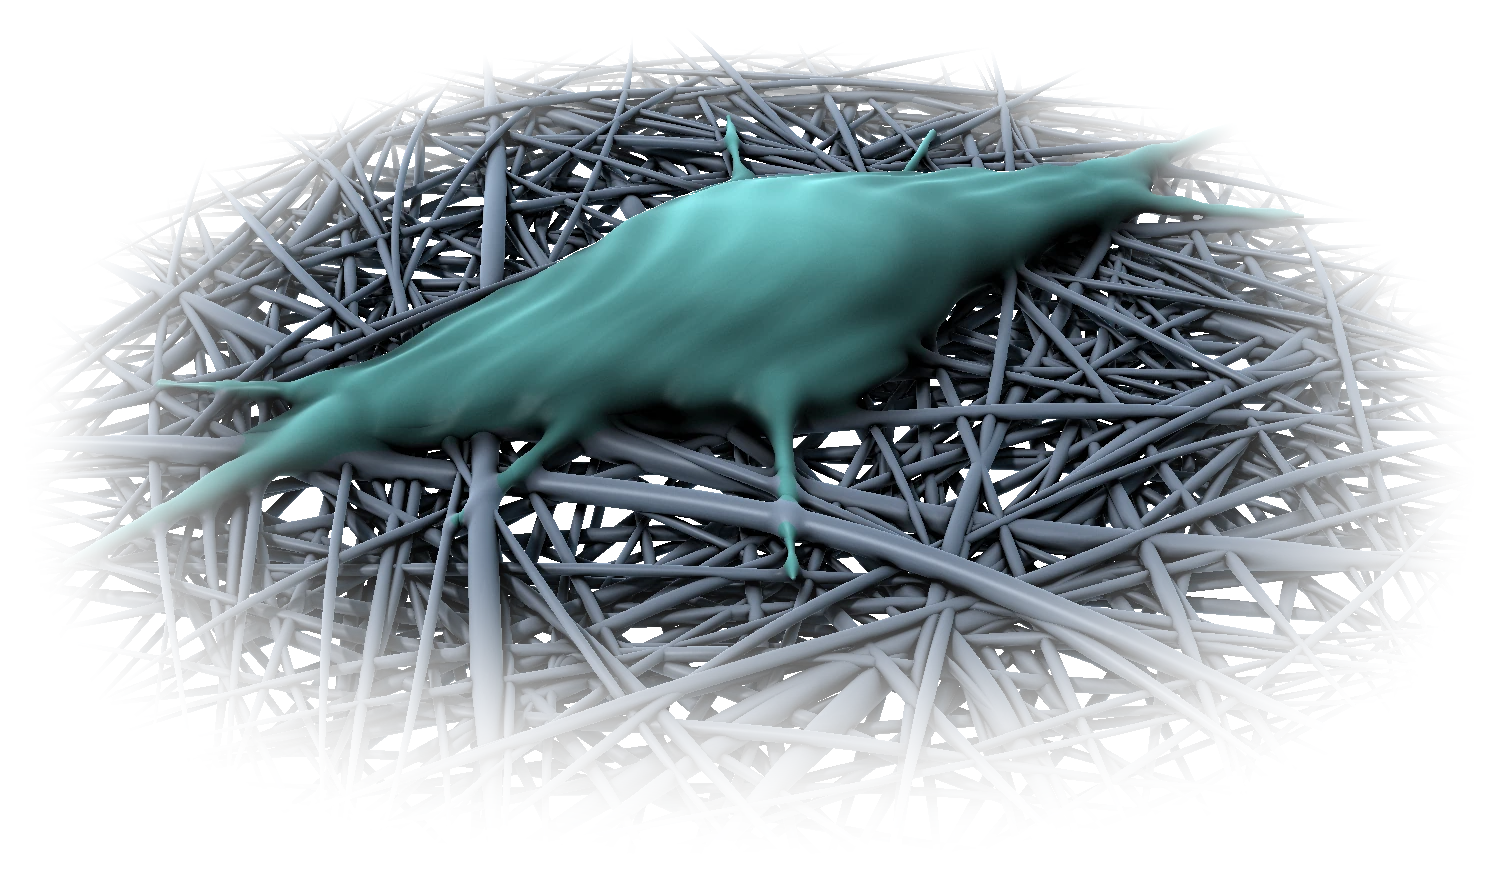
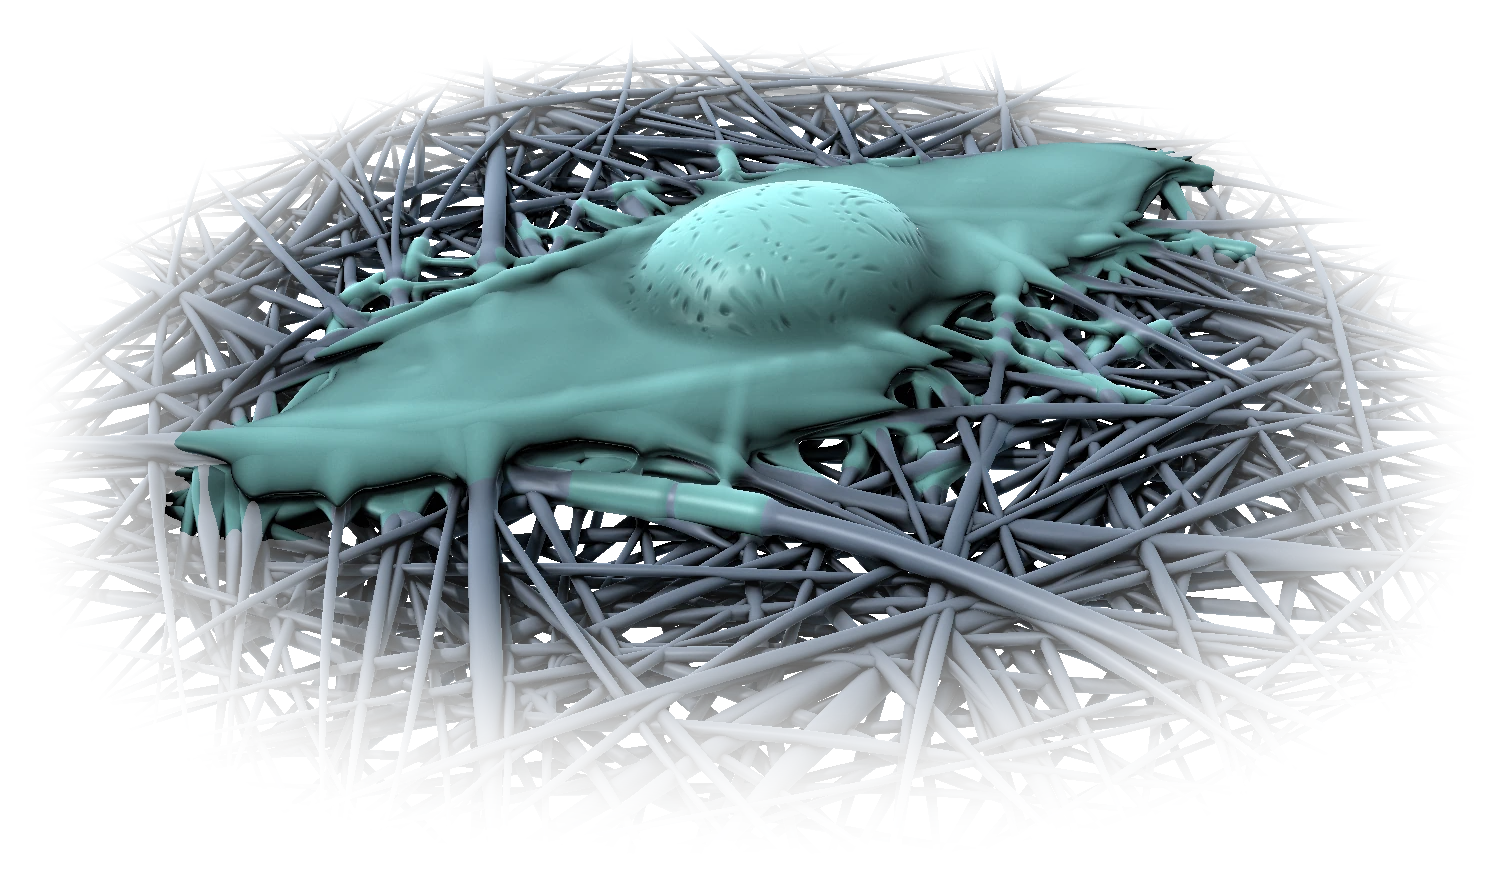
stembiosys: hero re-render (spread MSC with domed nucleus, filopodia anchored on matrix fibres, SEM shading)
Claude-Session: https://claude.ai/code/session_014388ND6gHmKRCQVnuSan9d

Changed region(s): [[0.0613, 0.122, 0.8587, 0.6712]]

diff --git a/_kit/home/stembiosys/render.py b/_kit/home/stembiosys/render.py
@@ -26,14 +26,42 @@ BB = rng.uniform(.01, .03, NF); GQ = rng.uniform(2, 5, NF); PS = rng.uniform(0, 
 CT, ST = np.cos(TH), np.sin(TH)
 # ---- the cell: a spread, spindle-shaped MSC, long axis at angle AL ----
 AL = 0.42; CA, SA = np.cos(AL), np.sin(AL); CU, CV = 0.05, 0.05
-BODY = [  # (u, v, y, ru, rv, ry)
- (0.00, 0.00, 0.07, 0.46, 0.33, 0.17), (0.38, 0.06, 0.04, 0.42, 0.24, 0.10), (-0.40, -0.05, 0.04, 0.42, 0.25, 0.10),
- (0.80, 0.10, 0.015, 0.36, 0.13, 0.05), (-0.82, -0.10, 0.015, 0.38, 0.14, 0.05), (0.05, 0.30, 0.02, 0.22, 0.20, 0.05),
- (-0.10, -0.32, 0.02, 0.24, 0.18, 0.05)]
-PROC = [  # filopodia / long processes: (u0,v0,u1,v1,r0,r1)
- (1.05, 0.15, 1.62, 0.30, .040, .008), (-1.10, -0.15, -1.68, -0.36, .042, .008), (1.0, 0.05, 1.45, -0.22, .022, .006),
- (-1.0, -0.06, -1.42, 0.20, .022, .006), (0.12, 0.42, 0.30, 0.95, .022, .006), (-0.18, -0.44, -0.40, -0.98, .024, .006),
- (0.45, 0.25, 0.80, 0.62, .016, .005), (-0.50, -0.26, -0.95, -0.55, .016, .005)]
+# a flattened, spread MSC: a domed nucleus region over a thin lamella with several lamellipodial lobes
+DOME = (0.05, 0.02, 0.085, 0.33, 0.25, 0.15)          # (u, v, y, ru, rv, ry)
+LAM = [tuple(c * .8 for c in t) for t in [(0.0, 0.0, 0.92, 0.42), (0.78, 0.16, 0.52, 0.30), (-0.86, -0.12, 0.56, 0.30), (0.18, 0.42, 0.40, 0.26),
+       (-0.28, -0.44, 0.38, 0.26), (1.22, 0.30, 0.32, 0.14), (-1.28, -0.28, 0.34, 0.15)]]   # (u, v, ru, rv), thin sheets
+LY, LH = -0.004, 0.026
+def fib_pt(i, s):
+    w = C[i] + AA[i] * np.sin(FQ[i] * s + PH[i]) + KB[i] * s * s
+    x = s * CT[i] - w * ST[i]; z = s * ST[i] + w * CT[i]
+    y = HY[i] + BB[i] * np.sin(GQ[i] * s + PS[i])
+    return np.array([x, y, z])
+def to_world(u, v):
+    return CU + u * CA - v * SA, CV + u * SA + v * CA
+# filopodia: from the lamella edge out to an anchor ON an upper matrix fibre, where they wrap the fibre
+FIL = []; WRAP = []
+rr = np.random.default_rng(77)
+cands = [i for i in range(NF) if HY[i] > -0.07]
+for k in range(26):
+    ang = k / 26 * 2 * np.pi + rr.normal(0, .08)
+    eu, ev = np.cos(ang), np.sin(ang)
+    # edge of the spread cell along this direction (ellipse-ish)
+    re = 1.0 / np.sqrt((eu / 1.25) ** 2 + (ev / 0.5) ** 2) * 0.72
+    ex, ez = to_world(eu * re, ev * re)
+    reach = rr.uniform(.22, .48)
+    tx, tz = to_world(eu * (re + reach), ev * (re + reach))
+    best = None
+    for i in cands:
+        ss_ = np.linspace(-2.2, 2.2, 400); P = np.array([fib_pt(i, q) for q in ss_[::4]])
+        d = np.hypot(P[:, 0] - tx, P[:, 2] - tz); j = np.argmin(d)
+        if best is None or d[j] < best[0]: best = (d[j], i, ss_[::4][j])
+    _, i, sa = best
+    A = fib_pt(i, sa); T = fib_pt(i, sa + .05) - fib_pt(i, sa - .05); T /= np.linalg.norm(T)
+    r0 = rr.uniform(.014, .022)
+    FIL.append((np.array([ex, LY + .01, ez]), A + np.array([0, RF[i] * .6, 0]), r0, .0062))
+    wl = rr.uniform(.04, .09)
+    WRAP.append((A - T * wl, A + T * wl, RF[i] + .0075))
+FIL = np.array([[*a, *b, r0, r1] for a, b, r0, r1 in FIL]); WRAP = np.array([[*a, *b, r] for a, b, r in WRAP])
 def smin(a, b, k):
     h = np.clip(.5 + .5 * (b - a) / k, 0, 1); return b * (1 - h) + a * h - k * h * (1 - h)
 def fib(p):
@@ -44,39 +72,52 @@ def fib(p):
     r = RF * np.clip((RD + .05 - rad) / .45, .15, 1)
     d = np.sqrt(w * w + dy * dy) * .75 - r
     return d.min(1)
+def cap(p, a, b, ra, rb):
+    ba = b - a; pa = p - a
+    t = np.clip((pa @ ba) / (ba @ ba), 0, 1)
+    return np.linalg.norm(pa - t[:, None] * ba, axis=1) - (ra + (rb - ra) * t)
 def cell(p):
     x, y, z = p[:, 0] - CU, p[:, 1], p[:, 2] - CV
     u = x * CA + z * SA; v = -x * SA + z * CA
+    ang = np.arctan2(v, u)
     d = np.full(len(p), 9.0)
-    for (bu, bv, by, ru, rv, ry) in BODY:
-        q = np.stack([(u - bu) / ru, (v - bv) / rv, (y - by) / ry], 1)
-        e = (np.linalg.norm(q, axis=1) - 1) * min(ru, rv, ry)
-        d = smin(d, e, .09)
-    for (u0, v0, u1, v1, r0, r1) in PROC:
-        bu, bv = u1 - u0, v1 - v0; L2 = bu * bu + bv * bv
-        t = np.clip(((u - u0) * bu + (v - v0) * bv) / L2, 0, 1)
-        yy = 0.012 * (1 - t)
-        dd = np.sqrt((u - u0 - bu * t) ** 2 + (v - v0 - bv * t) ** 2 + (y - yy) ** 2) - (r0 + (r1 - r0) * t)
-        d = smin(d, dd, .06)
-    # membrane: fine ruffles and a few surface blebs
-    d += .0035 * np.sin(19 * x + 7 * z + 1.3) * np.sin(23 * z - 11 * x) + .0025 * np.sin(41 * x - 29 * z + 3 * np.sin(9 * z))
+    for k_, (bu, bv, ru, rv) in enumerate(LAM):
+        # a thin lens-shaped sheet (tapers to a fine edge), outline irregular like a spreading MSC
+        sc = 1 + .10 * np.sin(3 * ang + 1.7 * k_) + .05 * np.sin(6 * ang + 2.3 * k_) + .025 * np.sin(13 * ang + k_)
+        R3 = np.stack([ru * sc, rv * sc, np.full_like(sc, LH)], 1)
+        pp = np.stack([u - bu, v - bv, y - LY], 1)
+        k0 = np.linalg.norm(pp / R3, axis=1); k1 = np.linalg.norm(pp / R3 ** 2, axis=1) + 1e-9
+        d = smin(d, k0 * (k0 - 1) / k1 * .85, .07)
+    bu, bv, by, ru, rv, ry = DOME
+    q = np.stack([(u - bu) / ru, (v - bv) / rv, (y - by) / ry], 1)
+    k0 = np.linalg.norm(q, axis=1); k1 = np.linalg.norm(q / np.array([ru, rv, ry]), axis=1) + 1e-9
+    d = smin(d, k0 * (k0 - 1) / k1, .12)
+    P = p
+    for f in FIL: d = smin(d, cap(P, f[0:3], f[3:6], f[6], f[7]), .03)
+    for w_ in WRAP: d = smin(d, cap(P, w_[0:3], w_[3:6], w_[6], w_[6] * .85), .012)
+    # surface: microvilli-like stipple over the dome, fine ruffles across the lamella
+    dome = np.clip(1.4 - np.linalg.norm(q, axis=1), 0, 1)
+    mv = np.sin(61 * x + 7 * np.sin(23 * z)) * np.sin(59 * z + 7 * np.sin(19 * x)) * np.sin(53 * y + 31 * x)
+    d += .0045 * dome * np.maximum(mv, 0) ** 2 * 2
+    d += .0012 * np.sin(23 * x + 13 * z + 2 * np.sin(7 * z)) * np.sin(19 * z - 11 * x)
     return d
 def sdf(p, want=False):
     a = fib(p); b = cell(p)
-    out = smin(a, b, .035)
+    b = b - .016 * np.clip(1 - a / .045, 0, 1) ** 2      # the thin sheet drapes over the fibres beneath it
+    out = smin(a, b, .028)
     if want: return out, b < a
     return out
 CAM = np.array([0.0, 2.2, -3.55]); TGT = np.array([0.0, -0.05, 0.05]); FOV = 37.0
 fw = nrm(TGT - CAM); rt = nrm(np.cross(np.array([0, 1.0, 0]), fw)); up = np.cross(fw, rt)
 TN = np.tan(np.radians(FOV / 2))
 Y0, Y1 = -0.2, 0.33
-def march(O, Dd, t, tmax, steps=150, eps=5e-4):
+def march(O, Dd, t, tmax, steps=200, eps=5e-4):
     hit = np.zeros(len(Dd), bool); act = np.where(t < tmax)[0]
     for s in range(steps):
         if len(act) == 0: break
         p = O + Dd[act] * t[act, None]
         d = sdf(p); h = d < eps; hit[act[h]] = True
-        t[act] += np.maximum(d, eps) * .8
+        t[act] += np.maximum(d, eps) * .65
         act = act[(~h) & (t[act] < tmax[act])]
     return t, hit
 def render_rows(rows):
@@ -105,10 +146,10 @@ def render_rows(rows):
         act = act[(sh[act] > .03) & (ts[act] < 1.2)]
     sh = sh * sh * (3 - 2 * sh)
     V = -D[hi]; ndv = np.clip((Nn * V).sum(1), 0, 1)
-    edge = (1 - ndv) ** 2.2                     # SEM edge brightening
+    edge = (1 - ndv) ** np.where(isc, 1.6, 2.2) * np.where(isc, 1.25, 1.0)                     # SEM edge brightening
     lam = np.clip((Nn @ Lk + .2) / 1.2, 0, 1) * sh
     Hh = nrm(Lk + V); spec = np.clip((Nn * Hh).sum(1), 0, 1) ** 50 * .3 * sh
-    mat = np.array([0.66, 0.76, 0.90]); cel = np.array([0.40, 0.80, 0.80]); blue = np.array([0.0, 0.44, 0.73])
+    mat = np.array([0.66, 0.76, 0.90]); cel = np.array([0.50, 0.84, 0.83]); blue = np.array([0.0, 0.44, 0.73])
     alb = np.where(isc[:, None], cel[None, :], mat[None, :])
     # deeper layers of the mesh sit darker, like a real SEM depth
     dep = np.clip((P[:, 1] + .17) / .2, 0, 1); dep = np.where(isc, 1, .45 + .55 * dep)
@@ -120,7 +161,7 @@ def render_rows(rows):
     col = np.clip(col + (np.random.default_rng(r0).random((len(hi), 1)) - .5) * .02, 0, 1) ** (1 / 1.05)
     img[hi, :3] = col
     rad = np.hypot(P[:, 0], P[:, 2]); a = np.clip((RD - rad) / .75, 0, 1)
-    img[hi, 3] = a * a * (3 - 2 * a)
+    img[hi, 3] = np.where(isc, np.maximum(a * a * (3 - 2 * a), np.clip((RD + .05 - rad) / .3, 0, 1)), a * a * (3 - 2 * a))
     return img.reshape(r1 - r0, W, 4)
 if __name__ == '__main__':
     band_ = max(4, H // (NP * 10)); jobs = [(r, min(H, r + band_)) for r in range(0, H, band_)]
